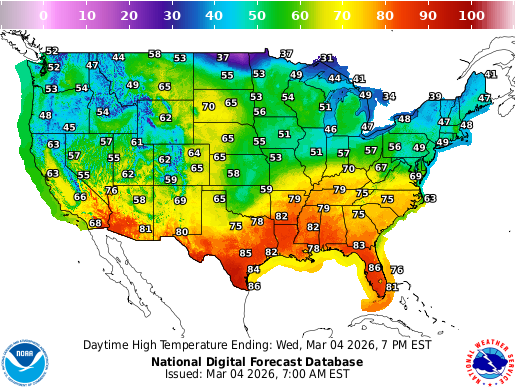
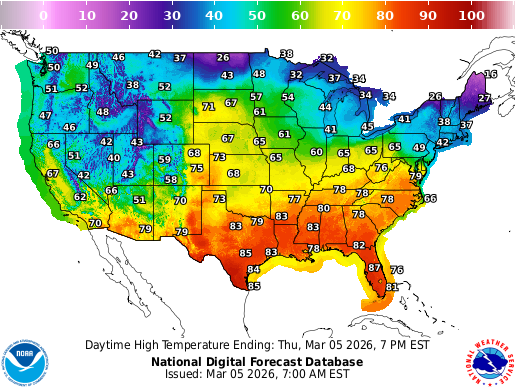
fix: add cache-busting timestamp to weather image URLs

diff --git a/templates/home/briefing.html b/templates/home/briefing.html
@@ -238,24 +238,24 @@
 
             <!-- Work Hours Warehouse -->
             <div class="col-12 col-md-4 border-start">
-              <div class="fw-semibold mb-2" style="font-size:0.75rem; text-transform:uppercase; letter-spacing:0.08em; color:#6c757d;">
+              <div class="fw-semibold mb-2" style="font-size:0.70rem; text-transform:uppercase; letter-spacing:0.08em; color:#6c757d;">
                 Work Hours · Warehouse
               </div>
-              <ul class="list-unstyled mb-0" style="line-height:1.9;">
-                <li>📅 Monday – Friday · 2 Shifts</li>
-                <li>🌤 Day:&nbsp;&nbsp; 7:00 AM – 3:30 PM</li>
-                <li>🌙 Night: 3:30 PM – 12:00 AM</li>
+              <ul class="list-unstyled mb-0" style="line-height:1.9; white-space:nowrap;">
+                <li>📅 Monday – Friday</li>
+                <li>🌤 Day: 7:00AM – 3:30PM</li>
+                <li>🌙 Night: 3:30PM – 12:00AM</li>
               </ul>
             </div>
 
             <!-- Work Hours Shipping -->
             <div class="col-12 col-md-4 border-start">
-              <div class="fw-semibold mb-2" style="font-size:0.75rem; text-transform:uppercase; letter-spacing:0.08em; color:#6c757d;">
+              <div class="fw-semibold mb-2" style="font-size:0.7rem; text-transform:uppercase; letter-spacing:0.08em; color:#6c757d;">
                 Work Hours · Shipping
               </div>
               <ul class="list-unstyled mb-0" style="line-height:1.9;">
                 <li>📅 Monday – Friday</li>
-                <li>🌤 Day:&nbsp;&nbsp; 7:30 AM – 4:30 PM</li>
+                <li>🌤 Day: 7:30AM – 4:30PM</li>
               </ul>
             </div>
 

diff --git a/templates/home/index.html b/templates/home/index.html
@@ -14,7 +14,7 @@
     <div class="col-md-6">
       <div class="card shadow-sm h-100">
         <img
-          src="/static/assets/MaxT1_conus.png"
+          src="/static/assets/MaxT1_conus.png?v={{ img_ts }}"
           class="card-img-top"
           alt="MaxT1 CONUS temperature forecast map"
           style="object-fit: contain; max-height: 420px; background: #f8f9fa;"
@@ -29,7 +29,7 @@
     <div class="col-md-6">
       <div class="card shadow-sm h-100">
         <img
-          src="/static/assets/national_forecast.jpg"
+          src="/static/assets/national_forecast.jpg?v={{ img_ts }}"
           class="card-img-top"
           alt="National weather forecast map"
           style="object-fit: contain; max-height: 420px; background: #f8f9fa;"

diff --git a/routers/home.py b/routers/home.py
@@ -14,6 +14,7 @@ Includes:
 
 from collections import defaultdict
 from pathlib import Path
+import time
 
 import openpyxl
 from fastapi import APIRouter, Query, Request
@@ -122,7 +123,7 @@ async def home(request: Request) -> HTMLResponse:
     """Render the home page."""
     return templates.TemplateResponse(
         "home/index.html",
-        {"request": request, "active_page": "home"},
+        {"request": request, "active_page": "home", "img_ts": int(time.time())},
     )
 
 
@@ -426,12 +427,12 @@ async def freight_cost_by_plant() -> JSONResponse:
 
 
 # ---------------------------------------------------------------------------
-# Analytics — SW transport type by year (Transp Type-email.xlsx, sheet AM)
+# Analytics — SW transport type by year (Transp Type.xlsx, sheet AM)
 # ---------------------------------------------------------------------------
 
 _EXCEL_TRANSP_PATH = (
     Path(__file__).parent.parent
-    / "raw_data" / "John" / "Transp Type-email.xlsx"
+    / "raw_data" / "John" / "Transp Type.xlsx"
 )
 
 # Row order within each product block (11 rows per product)
@@ -449,7 +450,7 @@ _SW_BLOCK_INDEX = 1
     "/api/analytics/sw-transport-type-by-year",
     summary="SW annual shipping volume by transport type (AMTOPP)",
     description=(
-        "Reads 'Transp Type-email.xlsx' (AM sheet) and returns annual totals "
+        "Reads 'Transp Type.xlsx' (AM sheet) and returns annual totals "
         "(lbs) for SW product by transport type: FTL, LTL, Intermodal, Export, "
         "Prepaid Total. Covers 2020–2025; 2026 is excluded as a partial year."
     ),
